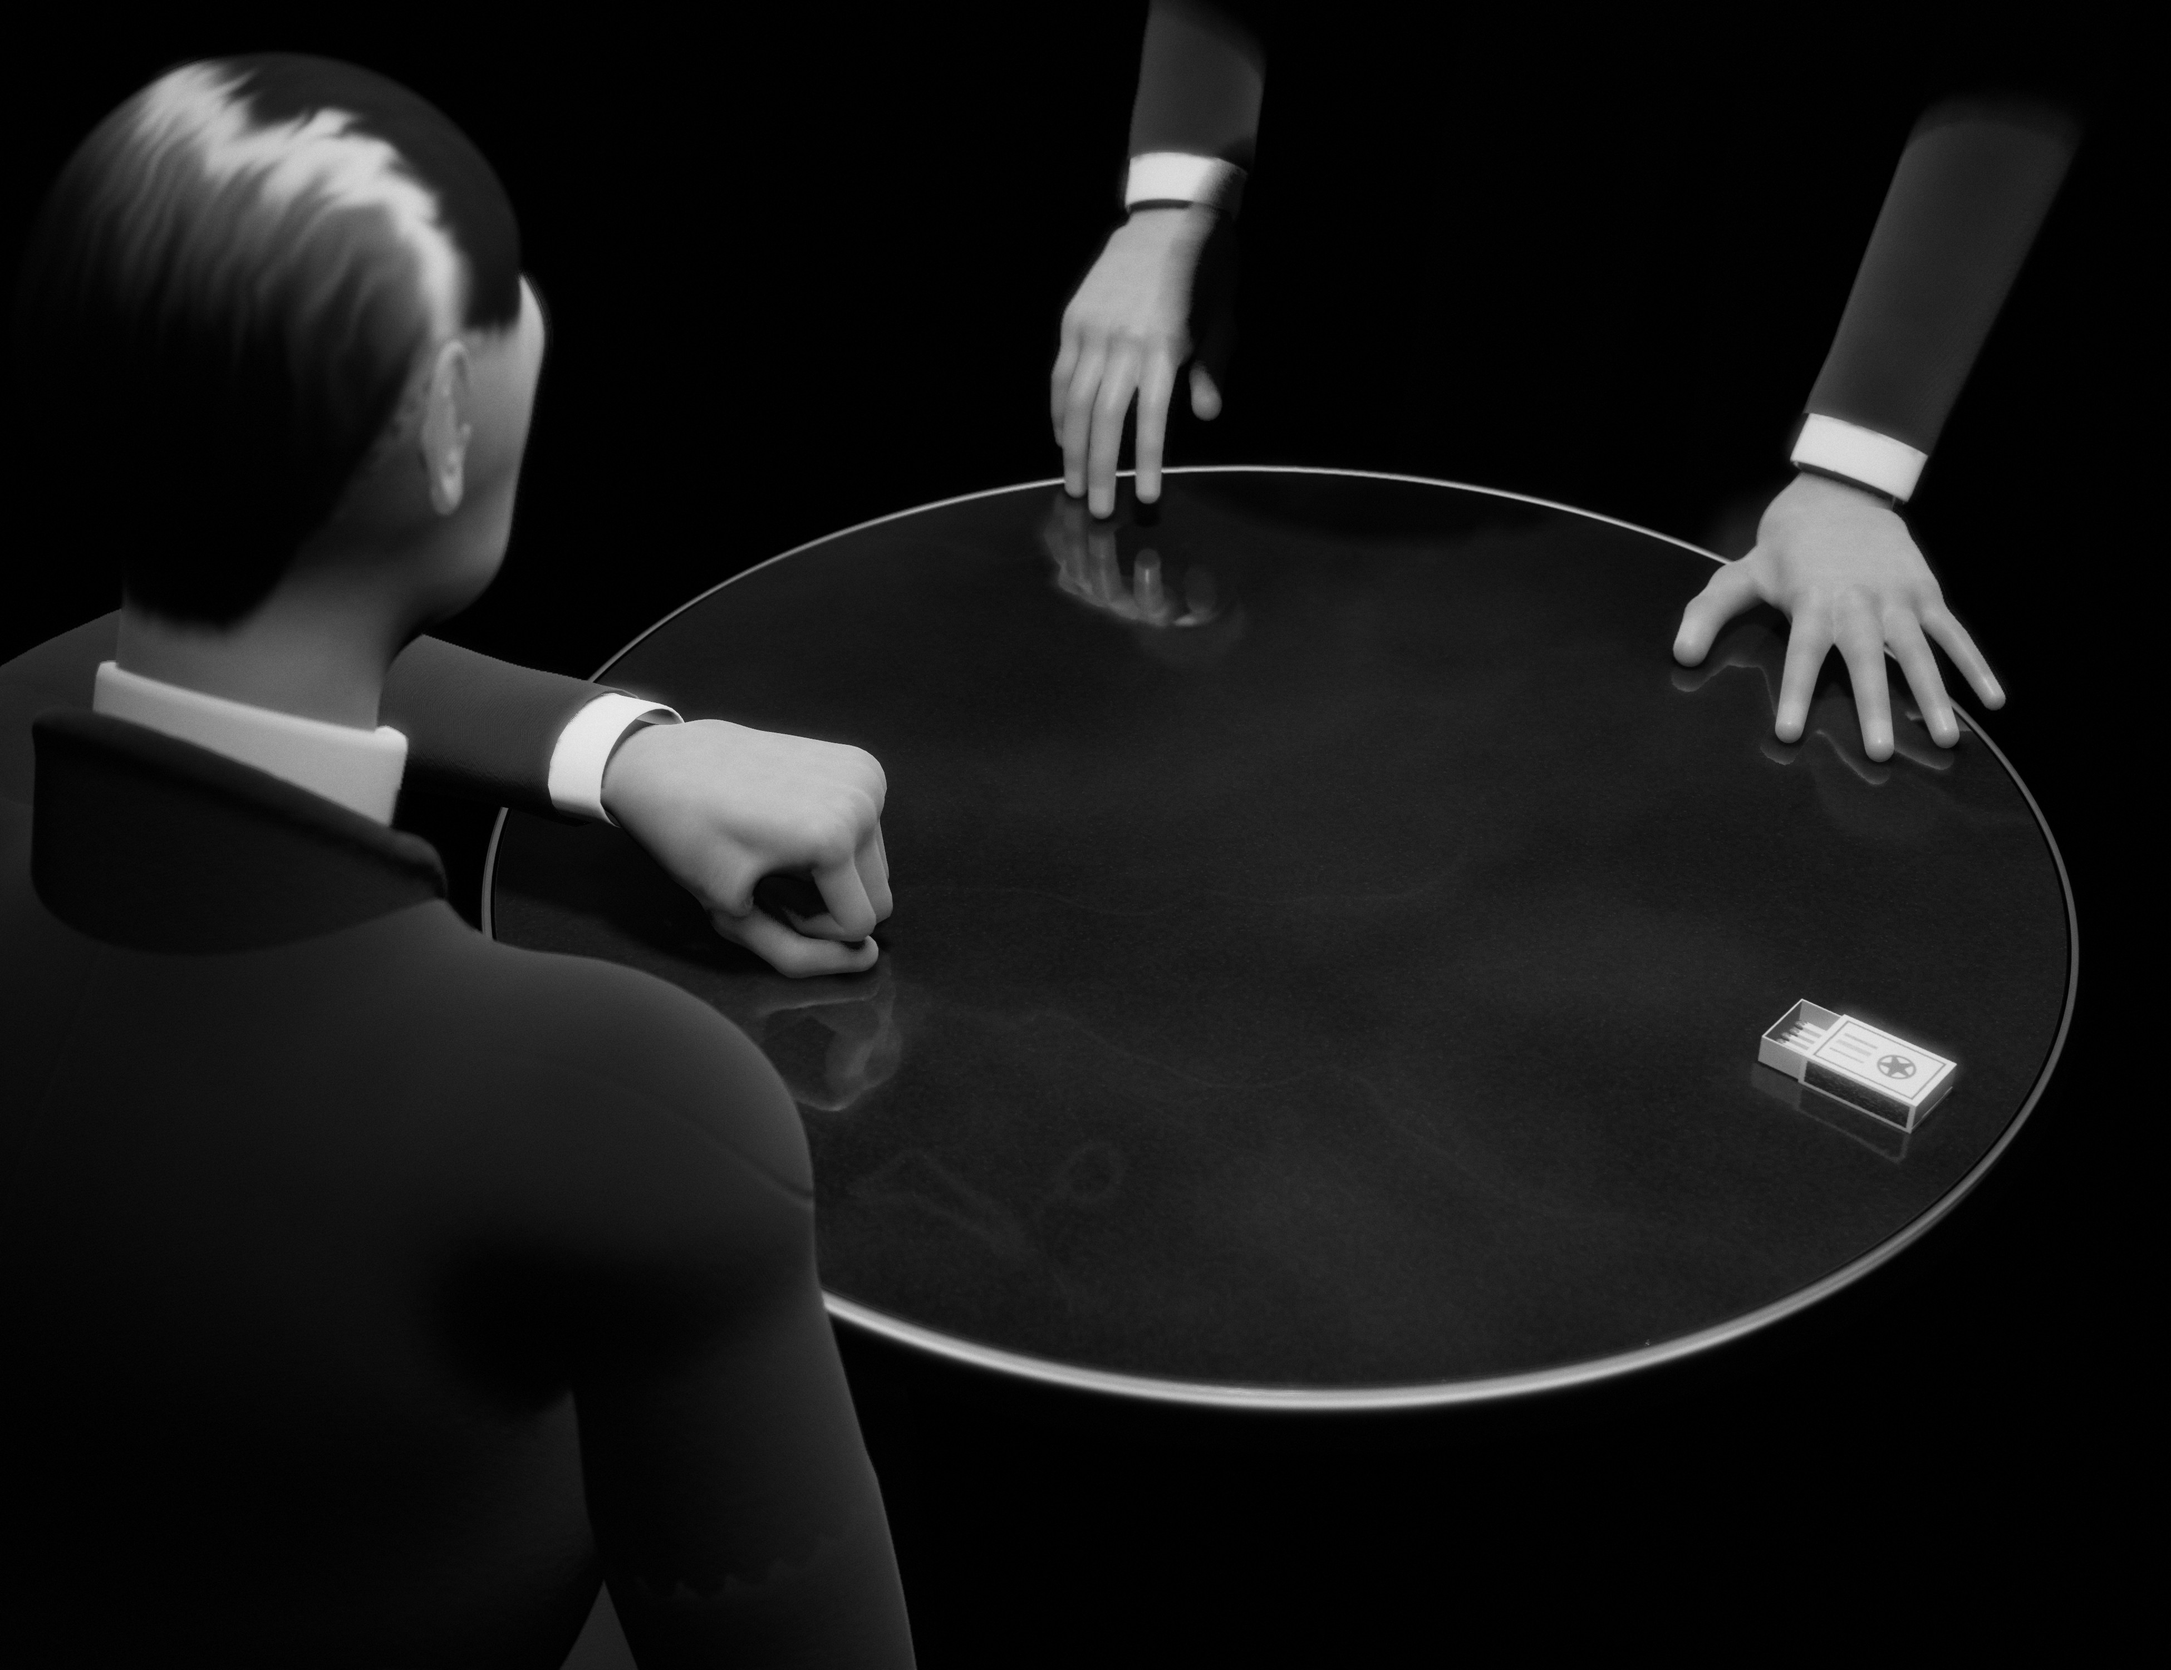
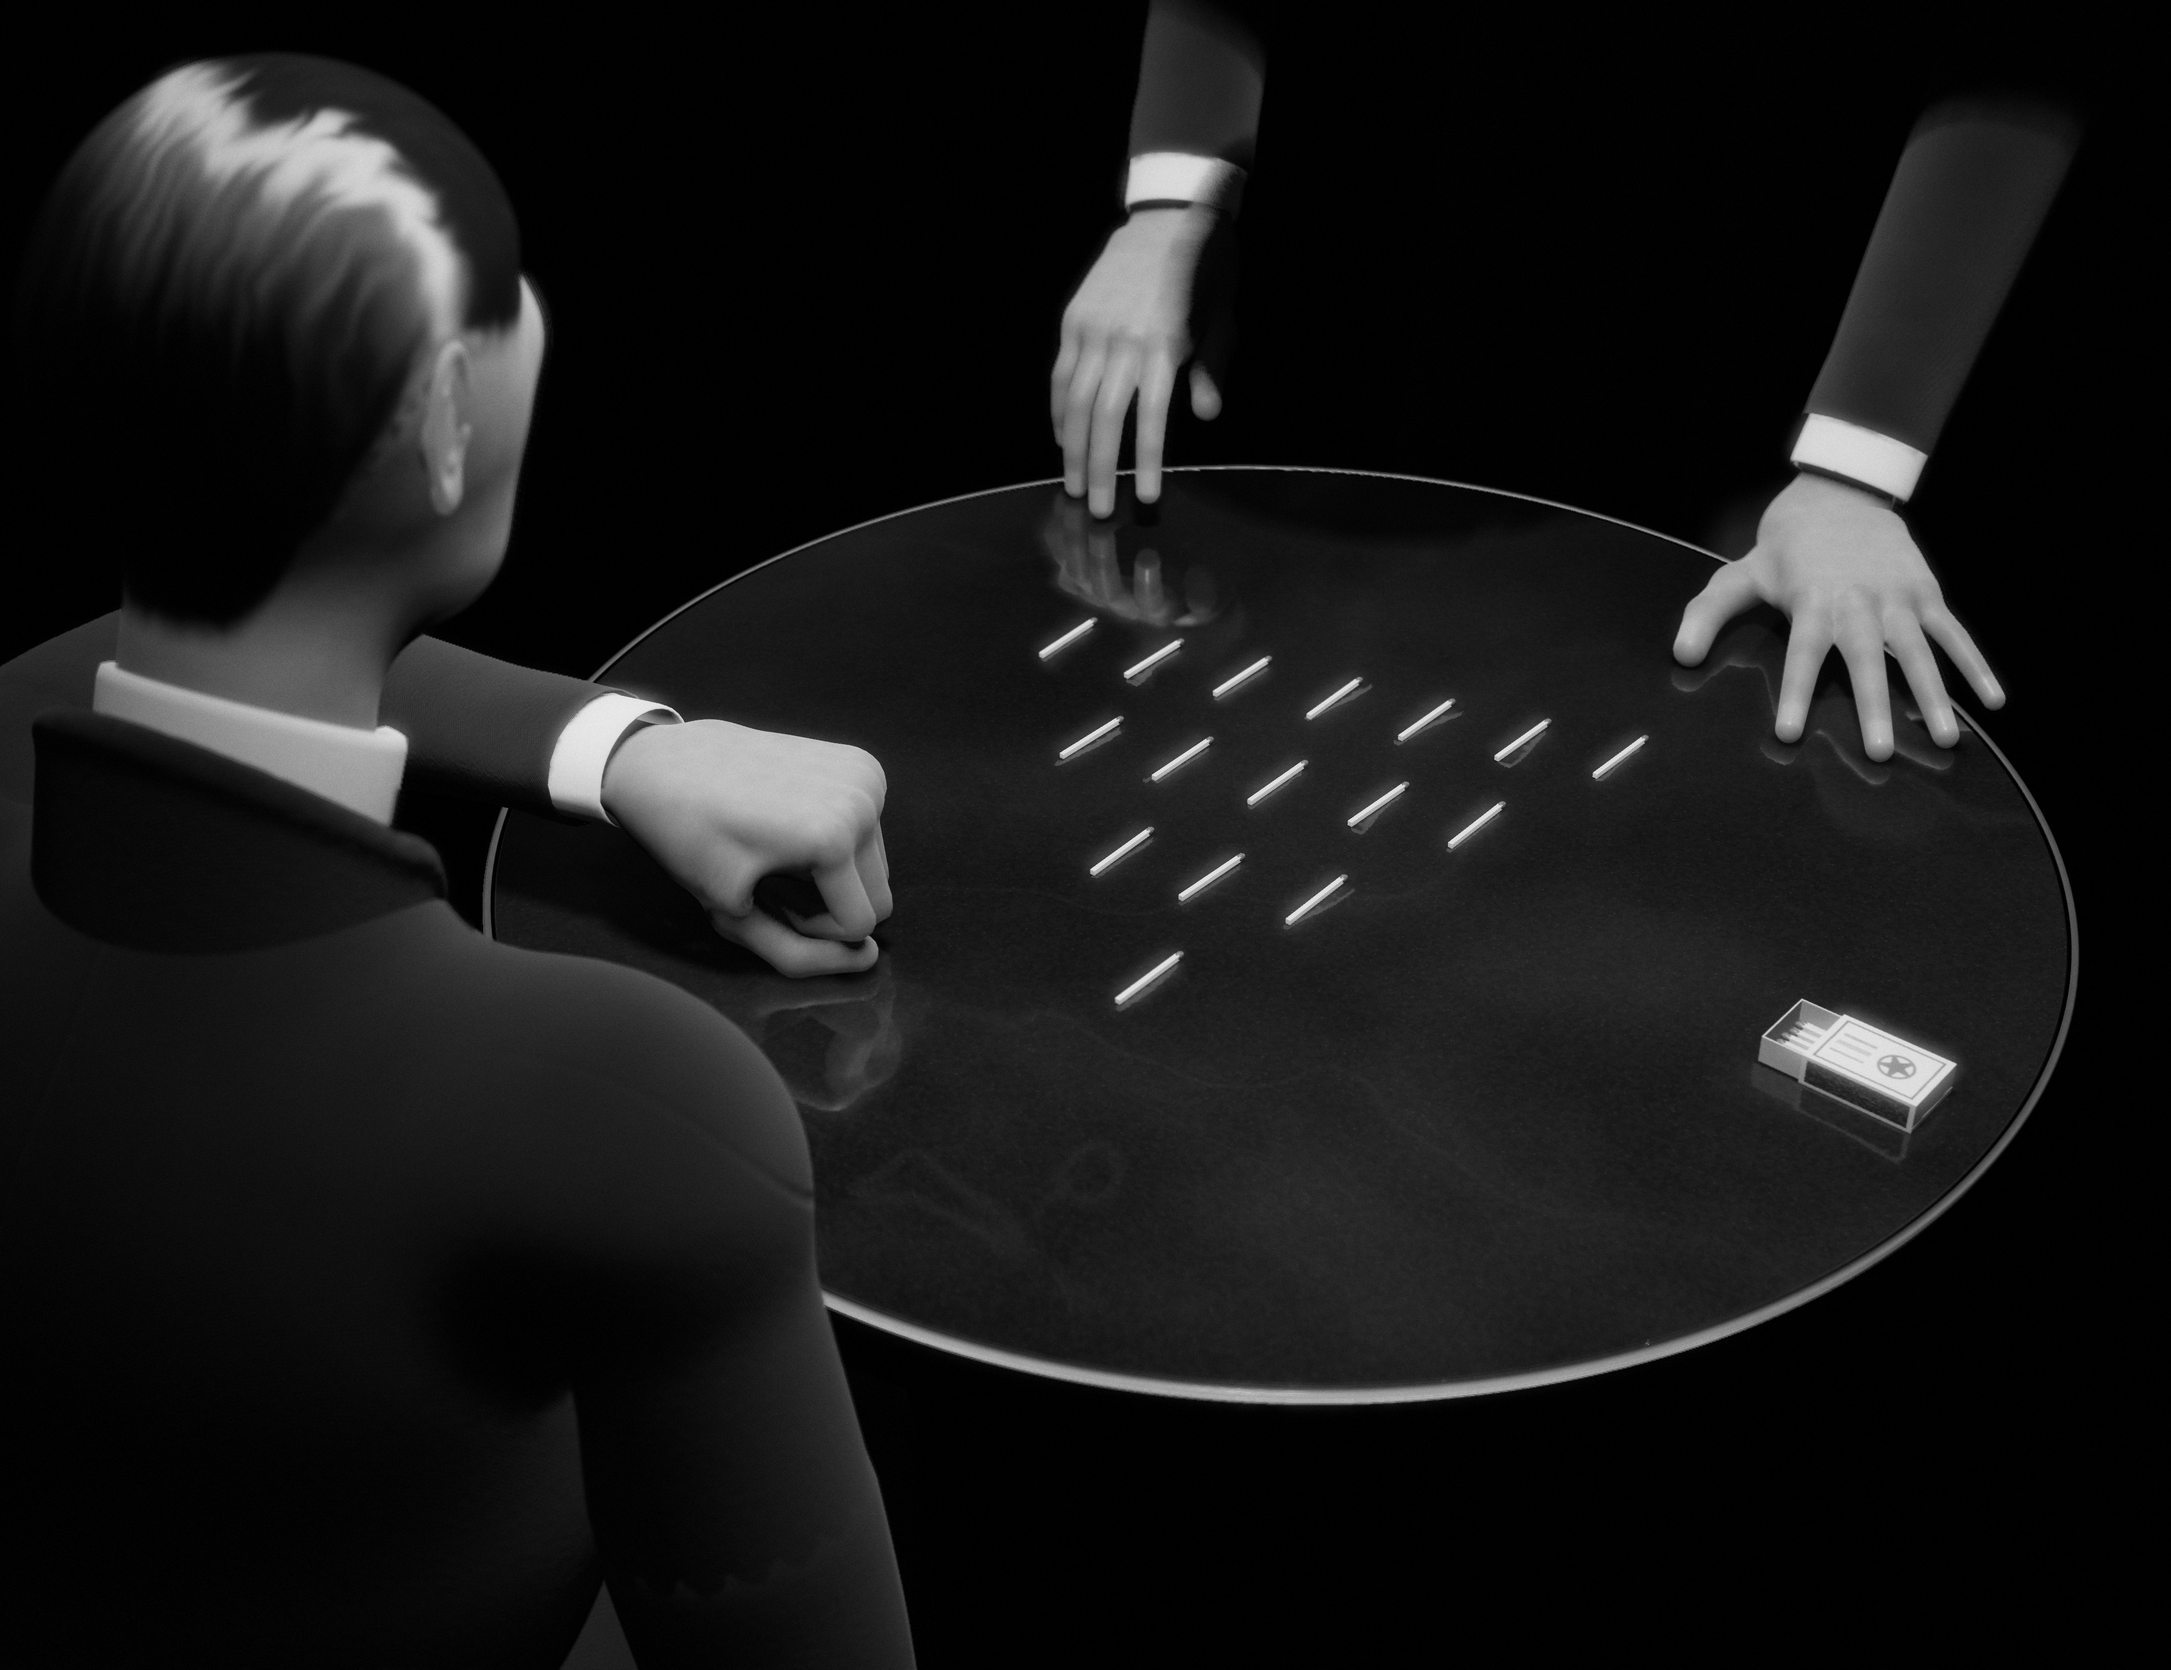
Open Nim with the matches ready to play

diff --git a/src/director.js b/src/director.js
@@ -449,17 +449,6 @@ export class Director {
     } else return;
     this.box.updateMatrixWorld(true);
   }
-  // every match back in the box (hidden), nothing on the table or in the piles
-  hideBoard() {
-    for (const p of Object.values(this.piles)) p.items = [];
-    for (const m of this.matches.list) {
-      m.state = 'box';
-      m.anim = null;
-      m.pile = null;
-      m.select = m.highlight = 0;
-      m.mesh.visible = false;
-    }
-  }
   // a point on the box (its own frame: x along it, toward the open drawer) in the world
   boxPoint(x, y, z) {
     this.box.updateMatrixWorld(true);
@@ -892,12 +881,11 @@ export class Director {
   async run() {
     // ?still: no game at all (debug: drive the hands from the console)
     if (this.still) { this.showBoard(); this.mode = 'idle'; return; }
-    if (this.debugLoop || this.debugPlayer) this.showBoard();
-    // the opponent lays the first game out of the box
-    if (!this.debugLoop && !this.debugPlayer) await this.layOutFromBox();
-    await this.sched.wait(0.6);
-    if (this.debugLoop) return this.runDebugLoop();
-    if (this.debugPlayer) return this.runPlayerLoop();
+    if (this.debugLoop || this.debugPlayer) {
+      this.showBoard();
+      await this.sched.wait(0.6);
+      return this.debugLoop ? this.runDebugLoop() : this.runPlayerLoop();
+    }
     for (;;) {
       await this.playGame();
       await this.sched.wait(1.6);

diff --git a/src/main.js b/src/main.js
@@ -457,7 +457,6 @@ function build() {
   director.still = params.has('still');
   ui.onConfirm = () => director.confirm();
   ui.onClear = () => director.clearSelection();
-  director.hideBoard(); // the opponent lays the first game out of the box
 
   if (params.has('gallery')) buildGallery();
   resize();
